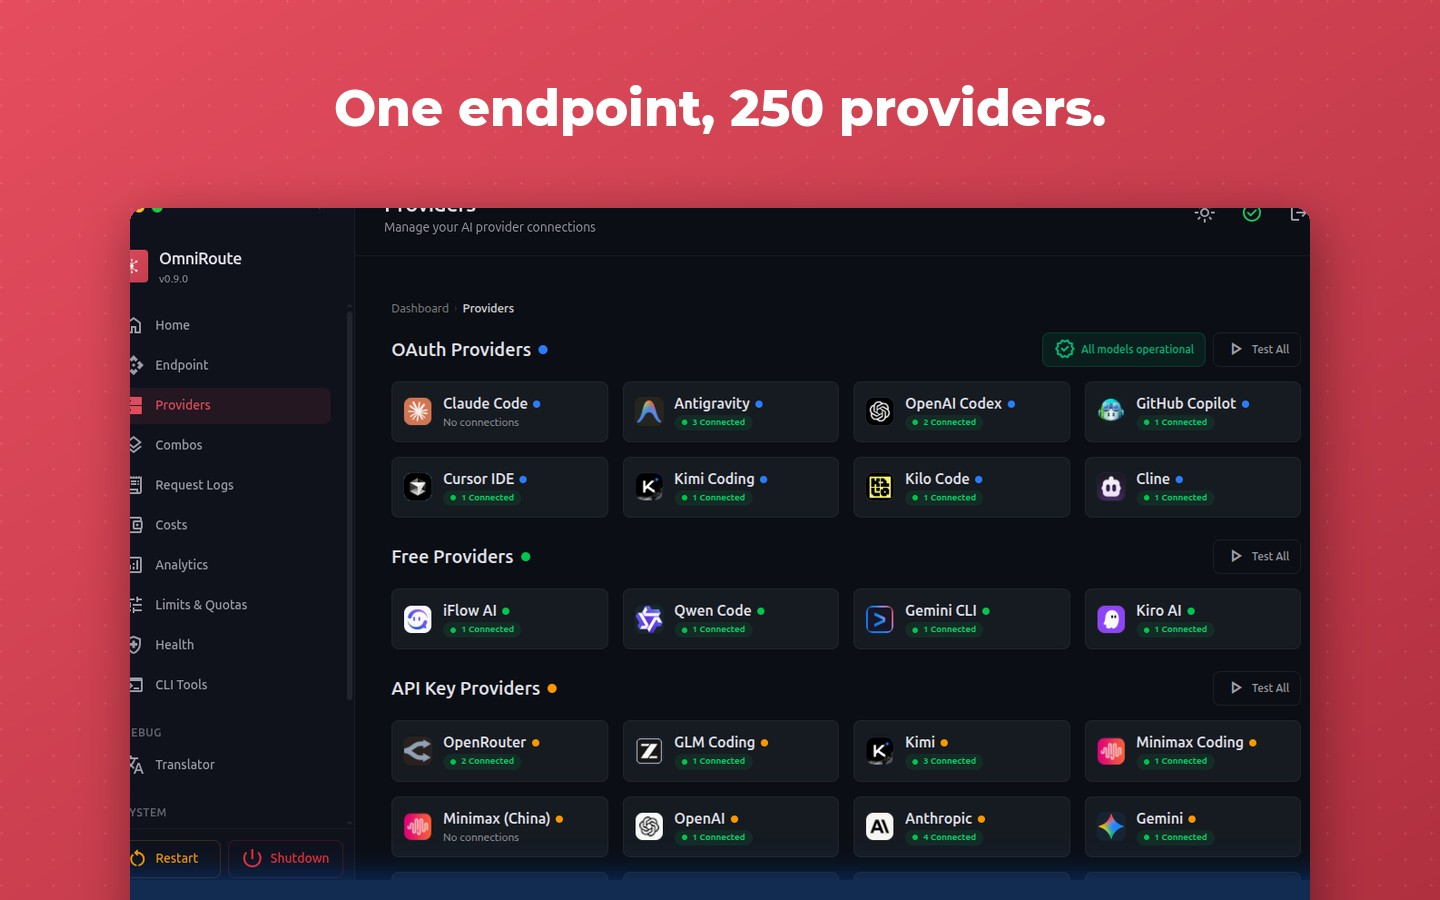
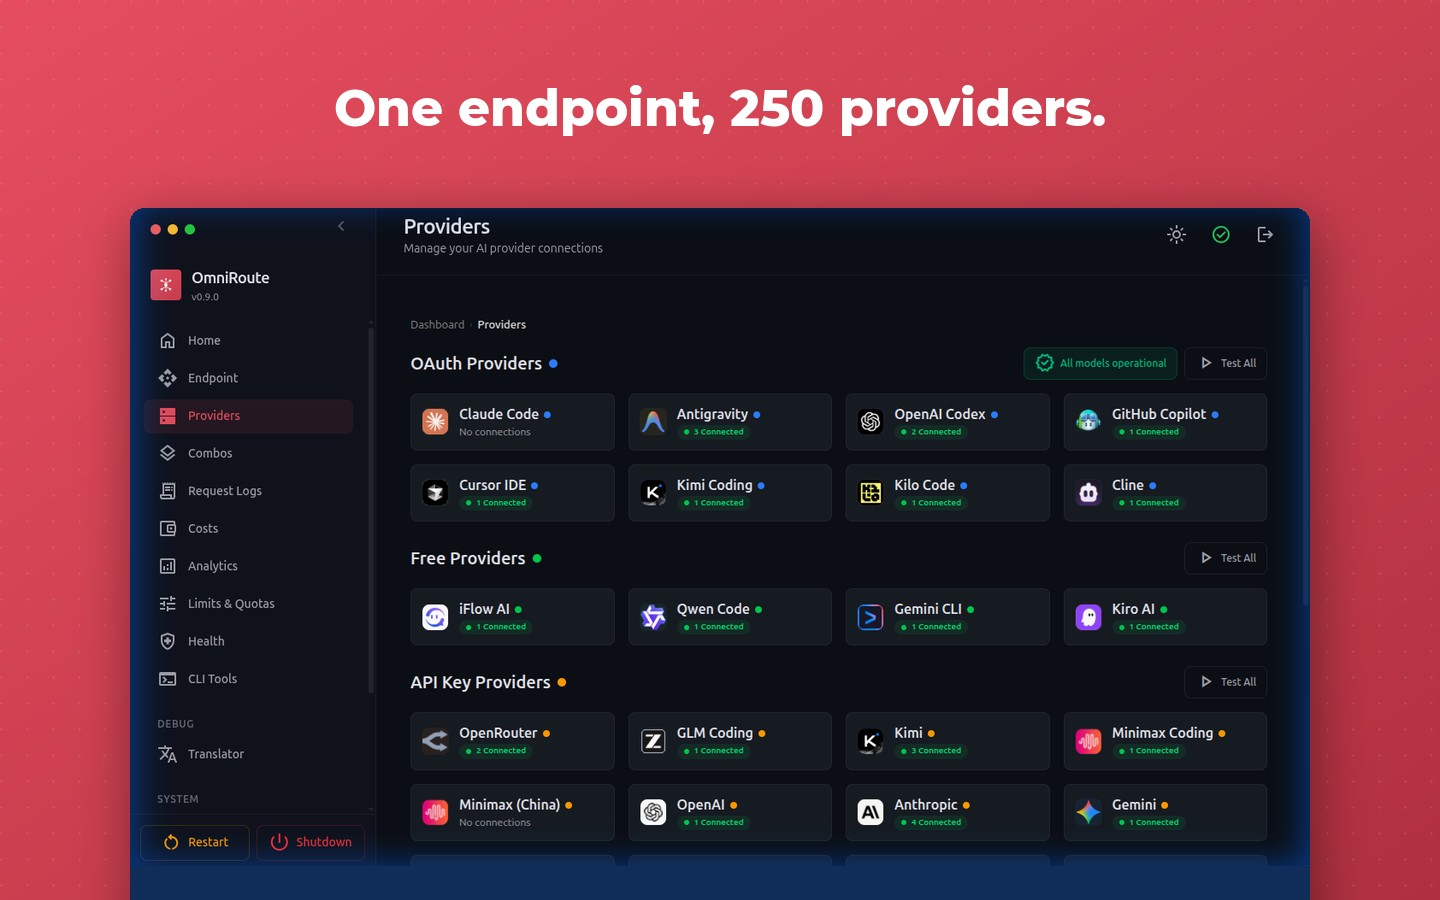
Fix sliced OmniRoute cards, add Terminus gallery
OmniRoute: the crop tops were wrong and cut straight through the page headers --
"Providers" was sliced horizontally and "Model combos with fallback" lost its
top half, with a stray traffic-light fragment left at the panel edge. I had
guessed the crop from brightness profiles, but these shots carry the app's own
window decoration whose traffic lights sit on the *same* row band as the page
title, so there is no clean line between them. Fixed by trimming only the
baked-in glow and letting that decoration serve as the title bar: headers
intact, nothing sliced, no second frame.

Terminus: upstream really does publish no screenshots -- the tree at 0.72.0 has
no image files and README.adoc carries only a Render badge. But its maintainers
attach real UI captures to issues, and 37 of those have image attachments. Of
the 52 images behind them, 13 were large enough to use; these three come from
#332 (extensions gallery), #324 (designer with live preview) and #288 (device
log detail). All three carry the full TERMINUS nav bar.

The #332 shot had a transient "Serverless transforms are not supported yet."
error toast from the bug it was filed against. That band is excised and the gap
closed, so the nav sits directly above the page content -- verified seamless at
full zoom. The permanent "import support is experimental" notice on that page is
left alone; it is real product behaviour, not a transient state.

Terminus therefore drops the last of the off-brand gallery images: a TRMNL
[…]

diff --git a/README.md b/README.md
@@ -144,10 +144,14 @@ tile. Where a project's own logo is transparent or circular, it is composited
 onto a rounded tile and committed here; otherwise the manifest links the
 project's own icon at a pinned tag.
 
-Terminus is the one app without gallery cards. Its upstream repo publishes no
-UI screenshots, so its `gallery:` still points at TRMNL marketing and
-third-party blog images. Replacing them needs a screenshot from a running
-Terminus instance.
+Terminus publishes no screenshots in its own repo, so its three cards are built
+from real UI captures its maintainers attached to
+[#332](https://github.com/usetrmnl/terminus/issues/332),
+[#324](https://github.com/usetrmnl/terminus/issues/324) and
+[#288](https://github.com/usetrmnl/terminus/issues/288). One had a transient
+"Serverless transforms are not supported yet." error toast from the bug it was
+filed against; that band was cut out so the nav sits directly above the page
+content. The permanent notices on those pages are left as they are.
 
 ---
 
